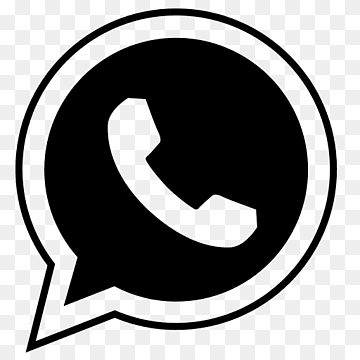
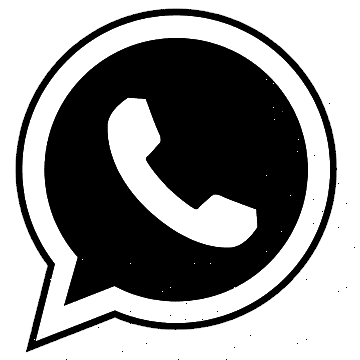
logotipos transparentes y corrección de tipeo

diff --git a/index.html b/index.html
@@ -70,7 +70,7 @@
         <ul id="descripcion" class="list-group">
           <li class="list-group-item">
             <p class="text-center">
-              Persona curiosa de multiples aficiones (como las ciancias, automovilismo, robótica,
+              Persona curiosa de multiples aficiones (como las ciencias, automovilismo, robótica,
               informática, comunicación, arquitectura, entre otras como psicología o economía) la mayoría
               alimentadas por mi innata movilidad por la creación; sin dejar de lado la ética que 
               motiva mi interés por la filosofía.
